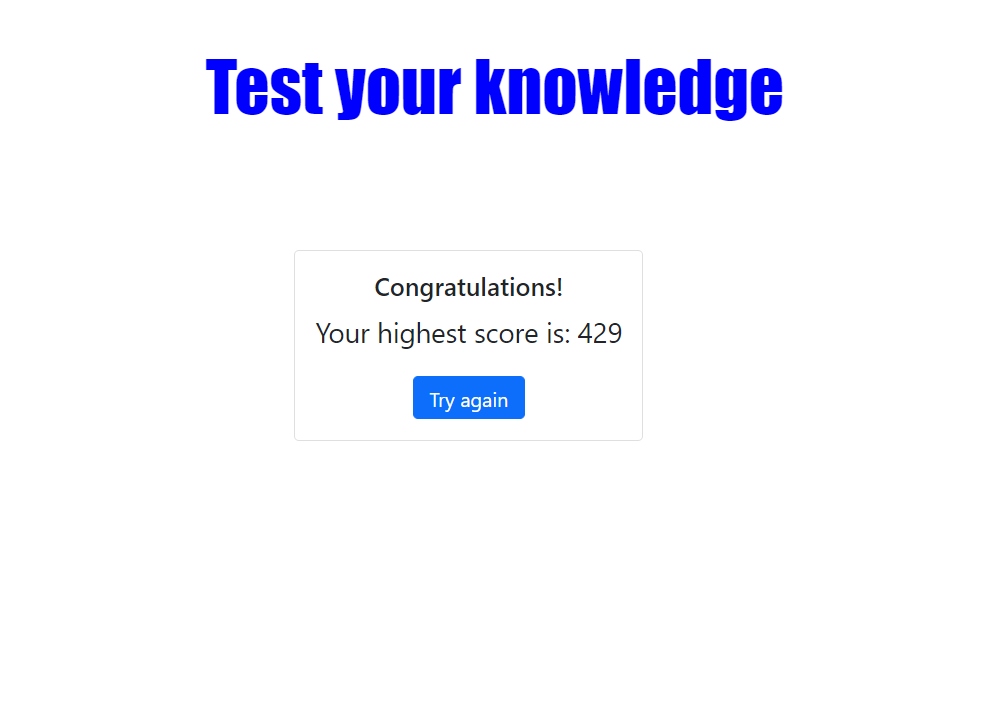
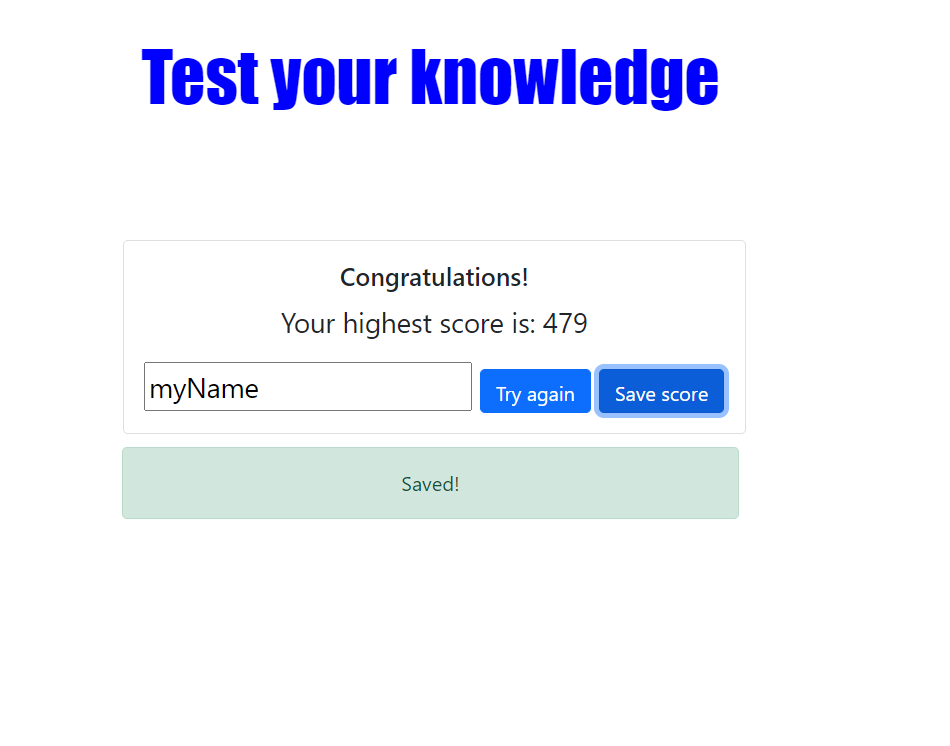
fixing saveScore function

Changed region(s): [[0.1221, 0.3404, 0.7937, 0.7117], [0.1526, 0.0619, 0.8242, 0.1857], [0.1526, 0.4951, 0.2747, 0.557]]

diff --git a/script.js b/script.js
@@ -116,11 +116,11 @@ function final() {
   <div class="card-body">
     <h5 class="card-title">Congratulations!</h5>
     <p class="card-text">Your highest score is: ${score}</p>
+    <input type="text" placeholder="Insert your name here" class="input"></input>
     <button class="btn btn-primary" onClick="newGame()">Try again</button>
+    <button class="btn btn-primary" onClick="saveScore()">Save score</button>
   </div>
 </div>`;
-  scores.push(score);
-  localStorage.scores = scores;
 }
 
 function newGame() {
@@ -139,6 +139,18 @@ function newGame() {
   }
   displayQuestion();
   interval();
+}
+
+function saveScore() {
+  let input = document.querySelector(".input").value;
+  if (input) {
+    scores.push([input, score]);
+    localStorage.scores = scores;
+    document.querySelector("#save").classList.remove("d-none");
+    setTimeout(function () {
+      document.querySelector("#save").classList.add("d-none");
+    }, 1000);
+  } else alert("Please insert your name");
 }
 
 document.querySelector("#startbtn").addEventListener("click", displayQuestion);

diff --git a/index.html b/index.html
@@ -29,6 +29,7 @@
             <div id="timeDisplay"></div>
             <div class="alert alert-success d-none" role="alert">Correct!</div>
             <div class="alert alert-danger d-none" role="alert">Wrong!</div>
+            <div class="alert alert-success d-none" id="save" role="alert">Saved!</div>
         </div>
     </div>
 

diff --git a/style.css b/style.css
@@ -47,3 +47,7 @@ body {
   font-weight: bold;
   color: orangered;
 }
+
+#card {
+  right: 15%;
+}
